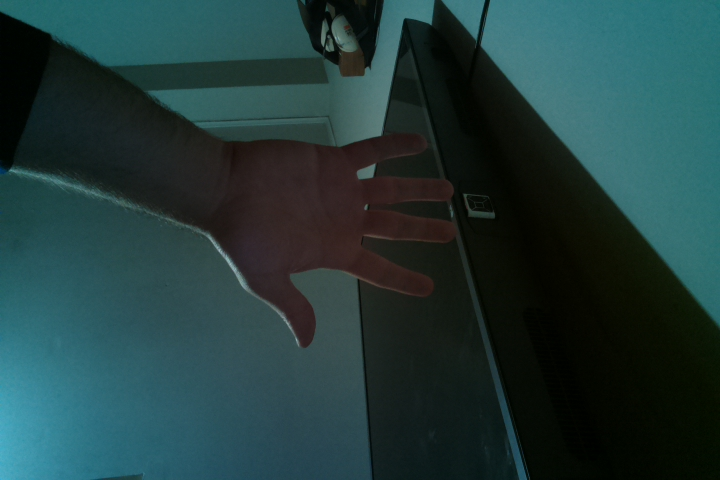
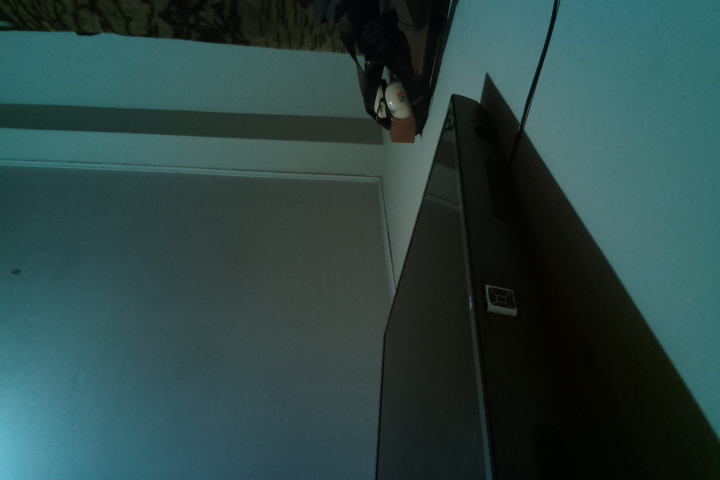
Camera is working (it was just a type error)

diff --git a/modules/OctaSat.py b/modules/OctaSat.py
@@ -37,9 +37,9 @@ class OctaSat:
         sleep(2)  # ! same the above
         return '[ ok ] Successfully beeped'
 
-    def Camera_Shot(self, num=1, route="/home/pi/OctaSat-Demo/data/images/"):
+    def Camera_Shot(self, num=1, route="/home/pi/OctaSat/data/images/"):
         while True:
-            if not os.path.isfile(route + "show_{}".format(num) + ".jpg"):
+            if not os.path.isfile(route + "shot_{}".format(num) + ".jpg"):
                 self.Camera.capture(route + "shot_{}".format(num) + ".jpg")
                 break
             else:
@@ -61,14 +61,14 @@ class OctaSat:
         return '[ ok ] Successfully saved'
 
     def start(self):
-        latitude, longitude = self.NEO_read() #! maintenance
+        # latitude, longitude = self.NEO_read() #! maintenance
         hdc_temperature, humidity = self.HDC_read()
         bmp_temperature, pressure, altitude = self.BMP_read()
         self.Buzzer_beep()  # * just beep
 
         data = {
-            'latitude': latitude, #! maintenance
-            'longitude': longitude, #! maintenance
+            # 'latitude': latitude, #! maintenance
+            # 'longitude': longitude, #! maintenance
             'hdc_temperature': hdc_temperature,
             'bmp_temperature': bmp_temperature,
             'humidity': humidity,
@@ -78,13 +78,13 @@ class OctaSat:
         }
 
         # save data in memory
-        self.black_box(file_name='/home/pi/OctaSat-Demo/data/OctaCSV.csv', data=data)
+        self.black_box(file_name='/home/pi/OctaSat/data/OctaCSV.csv', data=data)
 
         # take a picture
-        # print(self.Camera_Shot())
+        print(self.Camera_Shot())
 
         # save data in OBC memory
-        self.black_box(file_name='/home/pi/OctaSat-Demo/data/OctaCSV.csv', data=data)
+        self.black_box(file_name='/home/pi/OctaSat/data/OctaCSV.csv', data=data)
 
         # * formating payload ready to send
         payload = self.LORA.prepare_payload(data)
